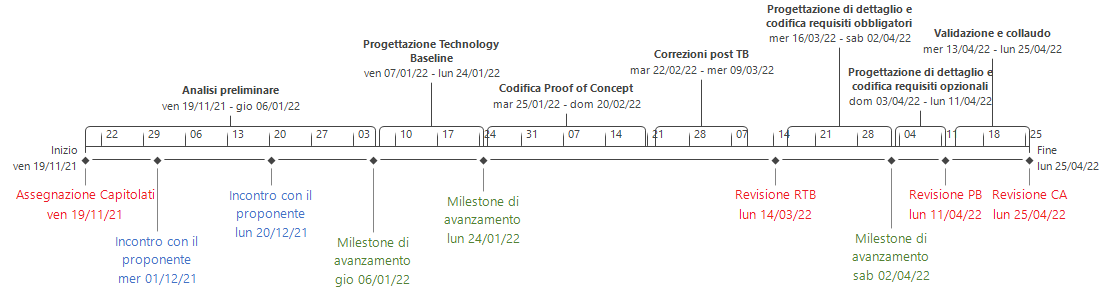
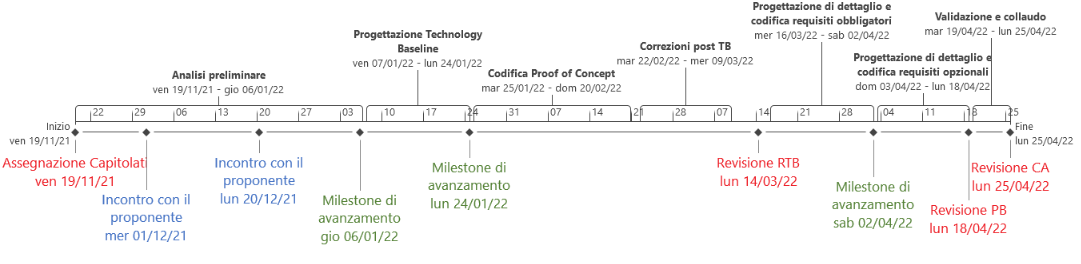
update pianificazione

Changed region(s): [[0.0, 0.0, 1.0, 0.9697], [0.3053, 0.9394, 0.3969, 1.0], [0.2747, 0.8788, 0.3969, 0.9091]]

diff --git a/src/piano_di_progetto/sezioni/pianificazione.tex b/src/piano_di_progetto/sezioni/pianificazione.tex
@@ -196,20 +196,71 @@ In base alle attività pianificate negli incrementi e alla loro distribuzione ne
 %%%%%%%%%%%%%%%%%%%%%%%%%%%%%%%%%%%%%%%%%%%%%%%%%%%%%%%%%%%%%%
 
 \subsection{Progettazione di dettaglio e codifica requisiti opzionali} \label{subsection:pianificazione_requisiti_opzionali}
-\textbf{Periodo:} dal 2022/04/03 al 2022/04/11.
+\textbf{Periodo:} dal 2022/04/03 al 2022/04/18.
 \bigskip
 \\Questo periodo ha inizio dopo il periodo di Progettazione di dettaglio e codifica dei requisiti obbligatori e termina con l'inizio del periodo di Validazione e collaudo.
 In preparazione alla revisione di \PB{} (PB\glo{}), si procede con la progettazione di dettaglio e la codifica dei requisiti opzionali.
-Durante questo periodo viene effettuato 1 incremento.
+Anche questo periodo, dopo attente considerazioni, abbiamo deciso di dividerlo in due sottoperiodi con relativi incrementi associati.
 \\Le attività svolte sono:
 \begin{itemize}
   \item \textbf{Test:} I \textit{programmatori} scrivono i test di unità e integrazione in relazione ai componenti sviluppati in questo periodo;
   \item \textbf{Codifica:} Viene eseguito lo sviluppo del codice del prodotto da parte dei \textit{programmatori} relativo ai componenti descritti dai requisiti opzionali;
   \item \textbf{Manuali:} Vengono aggiornati i documenti \docNameVersionMU{} e \docNameVersionMS{} in relazione ai requisiti opzionali;
-  \item \textbf{Modifiche incrementali ai documenti:} in questo periodo vengono apportate delle modifiche incrementali sui documenti precedentemente redatti.
+  \item \textbf{Modifiche incrementali e correttive ai documenti:} in questo periodo vengono apportate delle modifiche ai documenti che necessitano di una revisione e vengono poi apportate modifiche incrementali ai documenti in continua evoluzione.
 \end{itemize}
 In questo periodo i ruoli maggiormente coinvolti sono: \roleDesignerLow{}, \roleProgrammerLow{} e \roleVerifierLow{}.
+
+\subsubsection{Incremento 8} \label{subsubsection:incremento_8}
+\textbf{Periodo:} dal 2022/04/03 al 2022/04/11.
 \bigskip
+\\Gli obiettivi che il gruppo si prepone per questo incremento sono:
+\begin{itemize}
+  \item Preparazione delle attività di progettazione e codifica di dettaglio dei requisiti opzionali;
+  \item Implementazione della funzionalità di conversione del denaro in stable coin\glo{};
+  \item Continuazione stesura della documentazione da correlare al prodotto software;
+  \item Incremento della documentazione per la verifica e il miglioramento continuo.
+\end{itemize}
+Le attività svolte sono:
+\begin{itemize}
+  \item \textbf{\PB{}:} Continuazione stesura dell’allegato tecnico con implementazione dei diagrammi di sequenza;
+  \item \textbf{Test:} Vengono scritti i test di unità e integrazione in relazione ai componenti sviluppati in questo periodo;
+  \item \textbf{Codifica:} Implementazione delle funzionalità di conversione del denaro in stable coin\glo{};
+  \item \textbf{Manuali:} Continua la redazione dei documenti \docNameVersionMU{} e \docNameVersionMS{} in relazione ai requisiti opzionali;
+  \item \textbf{Modifiche incrementali e correttive ai documenti:} In questo periodo vengono apportate delle modifiche correttive ai documenti che necessitano di una revisione e vengono poi apportate modifiche incrementali ai documenti in continua evoluzione.
+\end{itemize}
+In questo periodo i ruoli maggiormente coinvolti sono: \roleDesignerLow{}, \roleProgrammerLow{} e \roleVerifierLow{}.
+\begin{figure}[H]
+  \centering
+  \includegraphics[scale=0.52]{immagini/incremento_8.png}
+  \caption{Diagramma di Gantt - Incremento 8}
+\end{figure}
+
+\subsubsection{Incremento 9} \label{subsubsection:incremento_9}
+\textbf{Periodo:} dal 2022/04/12 al 2022/04/18.
+\bigskip
+\\Gli obiettivi che il gruppo si prepone per questo incremento sono:
+\begin{itemize}
+  \item Continuazione delle attività di progettazione e codifica di dettaglio dei requisiti opzionali;
+  \item Implementazione dela funzionalità d'identificazione grafica per i dati presenti in blockchain\glo{};
+  \item Conclusione stesura della documentazione da correlare al prodotto software;
+  \item Incremento della documentazione per la verifica e il miglioramento continuo.
+\end{itemize}
+Le attività svolte sono:
+\begin{itemize}
+  \item \textbf{\PB{}:} Conclusione stesura dell’allegato tecnico;
+  \item \textbf{Test:} Vengono scritti i test di unità e integrazione in relazione ai componenti sviluppati in questo periodo;
+  \item \textbf{Codifica:} Implementazione delle funzionalità d'identificazione grafica per i dati presenti in blockchain\glo{};
+  \item \textbf{Manuali:} Continua la redazione dei documenti \docNameVersionMU{} e \docNameVersionMS{} in relazione ai requisiti desiderabili;
+  \item \textbf{Modifiche incrementali e correttive ai documenti:} In questo periodo vengono apportate delle modifiche correttive ai documenti che necessitano di una revisione e vengono poi apportate modifiche incrementali ai documenti in continua evoluzione.
+\end{itemize}
+In questo periodo i ruoli maggiormente coinvolti sono: \roleDesignerLow{}, \roleProgrammerLow{} e \roleVerifierLow{}.
+\begin{figure}[H]
+  \centering
+  \includegraphics[scale=0.52]{immagini/incremento_9.png}
+  \caption{Diagramma di Gantt - Incremento 9}
+\end{figure}
+
+In base alle attività pianificate negli incrementi e alla loro distribuzione nel tempo, la pianificazione complessiva del periodo di Progettazione di dettaglio e codifica dei requisiti opzionali può essere riassunta nel seguente diagramma.
 \begin{figure}[H]
   \centering
   \includegraphics[scale=0.56]{immagini/prog_requisiti_opzionali.png}
@@ -220,20 +271,18 @@ In questo periodo i ruoli maggiormente coinvolti sono: \roleDesignerLow{}, \role
 %%%%%%%%%%%%%%%%%%%%%%%%%%%%%%%%%%%%%%%%%%%%%%%%%%%%%%%%%%%%%%
 
 \subsection{Validazione e collaudo} \label{subsection:pianificazione_validazione}
-\textbf{Periodo:} dal 2022/04/05 al 2022/04/25.
+\textbf{Periodo:} dal 2022/04/19 al 2022/04/25.
 \bigskip
 \\Questo periodo ha inizio dopo il periodo di Progettazione di dettaglio e codifica dei requisiti opzionali e termina con la scadenza di consegna dei documenti per la revisione di \CA{} (CA\glo{}).
 Questo periodo rappresenta l'atto conclusivo delle attività di verifica realizzate precedentemente.
-\\Il sistema verrà collaudato e ci si accerterà che il prodotto realizzato
-sia pienamente conforme alle aspettative.
-Durante questo periodo viene effettuato 1 incremento e 4 modifiche incrementali sui documenti.
+\\Il sistema verrà collaudato e ci si accerterà che il prodotto realizzato sia pienamente conforme alle aspettative.
 Le attività svolte sono:
 \begin{itemize}
-  \item \textbf{Test:} Oltre ad ulteriori test di unità e di integrazione, vengono eseguiti test di sistema per verificare che il prodotto presenti tutte le caratteristiche attese;
+  \item \textbf{Test:} Vengono eseguiti test di sistema per verificare che il prodotto presenti tutte le caratteristiche attese;
   \item \textbf{Collaudo:} Il prodotto viene eseguito e testato in tutte le sue funzionalità, verificando che siano stati soddisfatti tutti i requisiti;
   \item \textbf{Validazione:} Viene controllato che il prodotto sia conforme alle specifiche e soddisfi le richieste del cliente.
         Durante questa attività vengono eseguiti i test di validazione;
-  \item \textbf{Modifiche incrementali e correttive ai documenti:} In questo periodo vengono apportate delle modifiche correttive ed incrementali sui documenti precedentemente redatti.
+  \item \textbf{Modifiche incrementali e correttive ai documenti:} In questo periodo vengono apportate delle modifiche correttive ai documenti che necessitano di una revisione e vengono poi apportate modifiche incrementali ai documenti in continua evoluzione.
 \end{itemize}
 In questo periodo i ruoli maggiormente coinvolti sono: \roleDesignerLow{}, \roleProgrammerLow{} e \roleVerifierLow{}.
 \bigskip
